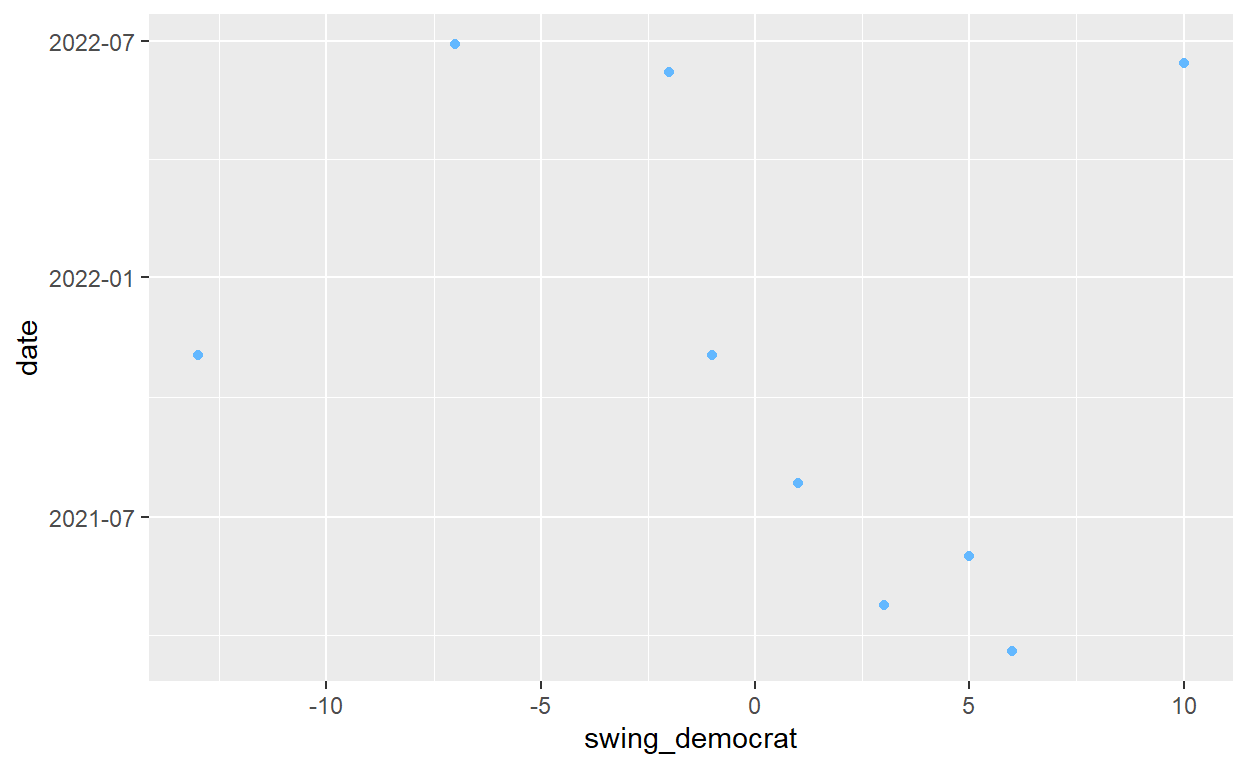
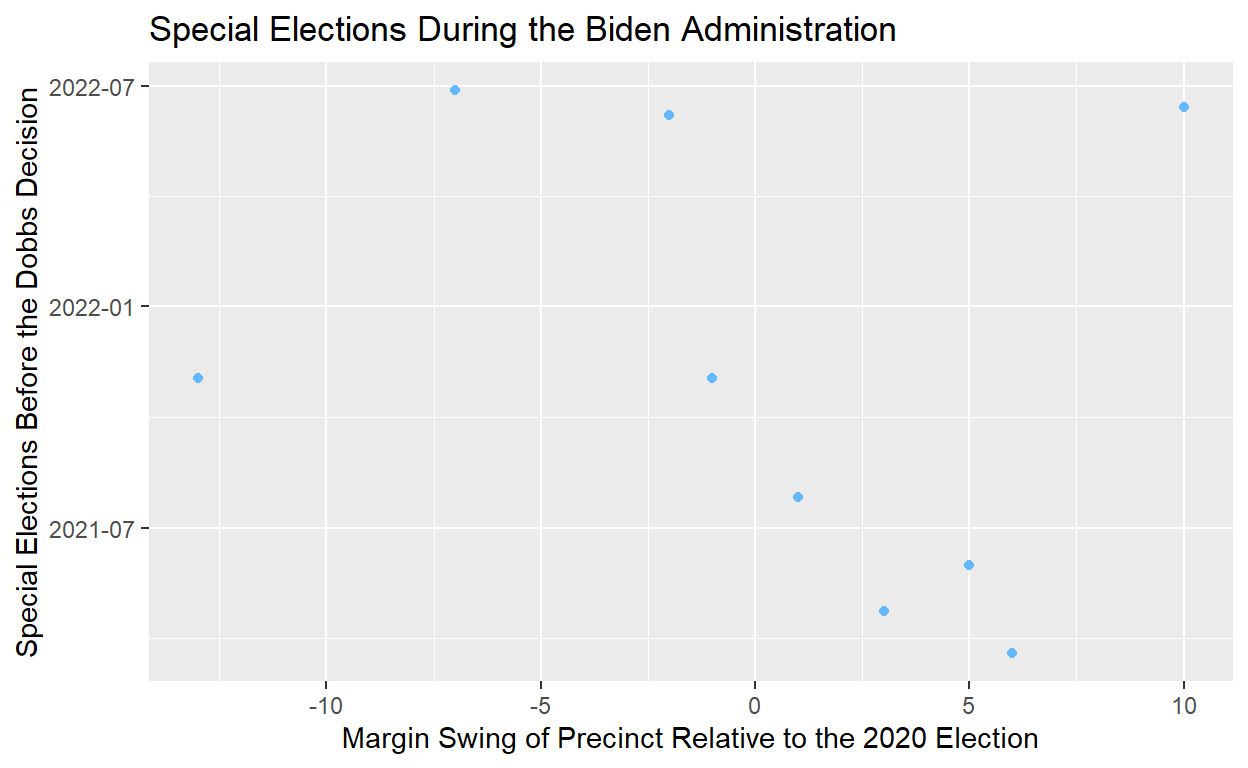
Please work.

diff --git a/index.html b/index.html
@@ -88,29 +88,29 @@ code span.wa { color: #5e5e5e; font-style: italic; } /* Warning */
 
 
   <!--radix_placeholder_meta_tags-->
-  <title>PS270 Final Project</title>
+  <title>The Dobbs Democrats</title>
 
-  <meta property="description" itemprop="description" content="My final project"/>
+  <meta property="description" itemprop="description" content="How the Dobbs decision ignitied Democratic voters and took them to the polls"/>
 
 
   <meta name="article:author" content="Wolfi Vetter"/>
 
   <!--  https://developers.facebook.com/docs/sharing/webmasters#markup -->
-  <meta property="og:title" content="PS270 Final Project"/>
+  <meta property="og:title" content="The Dobbs Democrats"/>
   <meta property="og:type" content="article"/>
-  <meta property="og:description" content="My final project"/>
+  <meta property="og:description" content="How the Dobbs decision ignitied Democratic voters and took them to the polls"/>
   <meta property="og:locale" content="en_US"/>
 
   <!--  https://dev.twitter.com/cards/types/summary -->
   <meta property="twitter:card" content="summary"/>
-  <meta property="twitter:title" content="PS270 Final Project"/>
-  <meta property="twitter:description" content="My final project"/>
+  <meta property="twitter:title" content="The Dobbs Democrats"/>
+  <meta property="twitter:description" content="How the Dobbs decision ignitied Democratic voters and took them to the polls"/>
 
   <!--/radix_placeholder_meta_tags-->
   <!--radix_placeholder_rmarkdown_metadata-->
 
   <script type="text/json" id="radix-rmarkdown-metadata">
-  {"type":"list","attributes":{"names":{"type":"character","attributes":{},"value":["title","author","description","output"]}},"value":[{"type":"character","attributes":{},"value":["PS270 Final Project"]},{"type":"list","attributes":{},"value":[{"type":"list","attributes":{"names":{"type":"character","attributes":{},"value":["name"]}},"value":[{"type":"character","attributes":{},"value":["Wolfi Vetter"]}]}]},{"type":"character","attributes":{},"value":["My final project"]},{"type":"list","attributes":{"names":{"type":"character","attributes":{},"value":["distill::distill_article"]}},"value":[{"type":"list","attributes":{"names":{"type":"character","attributes":{},"value":["self_contained"]}},"value":[{"type":"logical","attributes":{},"value":[false]}]}]}]}
+  {"type":"list","attributes":{"names":{"type":"character","attributes":{},"value":["title","author","description","output"]}},"value":[{"type":"character","attributes":{},"value":["The Dobbs Democrats"]},{"type":"list","attributes":{},"value":[{"type":"list","attributes":{"names":{"type":"character","attributes":{},"value":["name"]}},"value":[{"type":"character","attributes":{},"value":["Wolfi Vetter"]}]}]},{"type":"character","attributes":{},"value":["How the Dobbs decision ignitied Democratic voters and took them to the polls"]},{"type":"list","attributes":{"names":{"type":"character","attributes":{},"value":["distill::distill_article"]}},"value":[{"type":"list","attributes":{"names":{"type":"character","attributes":{},"value":["self_contained"]}},"value":[{"type":"logical","attributes":{},"value":[false]}]}]}]}
   </script>
   <!--/radix_placeholder_rmarkdown_metadata-->
   
@@ -1518,7 +1518,7 @@ code span.wa { color: #5e5e5e; font-style: italic; } /* Warning */
 <!--radix_placeholder_front_matter-->
 
 <script id="distill-front-matter" type="text/json">
-{"title":"PS270 Final Project","description":"My final project","authors":[{"author":"Wolfi Vetter","authorURL":"#","affiliation":"&nbsp;","affiliationURL":"#","orcidID":""}]}
+{"title":"The Dobbs Democrats","description":"How the Dobbs decision ignitied Democratic voters and took them to the polls","authors":[{"author":"Wolfi Vetter","authorURL":"#","affiliation":"&nbsp;","affiliationURL":"#","orcidID":""}]}
 </script>
 
 <!--/radix_placeholder_front_matter-->
@@ -1528,11 +1528,11 @@ code span.wa { color: #5e5e5e; font-style: italic; } /* Warning */
 <!--/radix_placeholder_site_before_body-->
 
 <div class="d-title">
-<h1>PS270 Final Project</h1>
+<h1>The Dobbs Democrats</h1>
 
 <!--radix_placeholder_categories-->
 <!--/radix_placeholder_categories-->
-<p>My final project</p>
+<p>How the Dobbs decision ignitied Democratic voters and took them to the polls</p>
 </div>
 
 <div class="d-byline">
@@ -1544,12 +1544,9 @@ code span.wa { color: #5e5e5e; font-style: italic; } /* Warning */
 
 <div class="d-article">
 <h2 id="project-thoughts">Project thoughts</h2>
-<p>I am interested in exploring data related to…
-how Democrats have consistently overperformed in off-year elections since Roe v. Wade was overturned.</p>
-<p>Question: How do election results skew differently following the Supreme Court’s decision to overturn Roe v. Wade? I believe that the election results have skewed more heavily towards the Democratic party following the termination of Roe. This is evident in abortion ballot initiatives, the 2022 Congressional midterms, and special elections occurring in 2023 and 2024, leading up to the 2024 presidential election. In order to properly conclude this idea, I will need to show polls and subsequent exit polls for the 2022 midterms and special elections, not only in districts that lean Republican but also districts that lean Democratic. Thankfully I already have a small list of examples from both sides of thi coin which I can use as a starting base. Additionally, I recall an MSNBC video where Chris Hayes explains how Democrats have overperformed consistently in 2023 special elections by an average of 8 points. If I can find that video, it should have a list of these elections and can further help my case.</p>
+<p>Question: How do election results skew differently following the Supreme Court’s decision to overturn Roe v. Wade? I believe that the election results have skewed more heavily towards the Democratic party following the termination of Roe. This is evident in abortion ballot initiatives, the 2022 Congressional midterms, and special elections occurring in 2023 and 2024, leading up to the 2024 presidential election. In order to properly conclude this idea, I will need to show polls and subsequent exit polls for the 2022 midterms and special elections, not only in districts that lean Republican but also districts that lean Democratic. Thankfully I already have a small list of examples from both sides of this coin which I can use as a starting base. Additionally, I recall an MSNBC video where Chris Hayes explains how Democrats have overperformed consistently in 2023 special elections by an average of 8 points. If I can find that video, it should have a list of these elections and can further help my case.</p>
+<p>I find this data important because prior to the 2024 General Presidential Election, I used this as one of many factors to predict the 2024 Election. The fact that the elections have skewed more in favor of the Democratic candidates after the Dobbs decision have given a strong hint that the Democrats were being conisistently underestimated going into the 2024 election season.</p>
 <p>Democrats Overperforming in Special Elections 2023:</p>
-<p>(Look into special elections pre-dobbs, 2021 and 2022)</p>
-<p>(Make sure to commit everything)</p>
 <div class="layout-chunk" data-layout="l-body">
 <div class="sourceCode">
 <pre class="sourceCode r"><code class="sourceCode r"><span><span class='kw'><a href='https://rdrr.io/r/base/library.html'>library</a></span><span class='op'>(</span><span class='va'><a href='https://tidyverse.tidyverse.org'>tidyverse</a></span><span class='op'>)</span></span>
@@ -1571,12 +1568,14 @@ how Democrats have consistently overperformed in off-year elections since Roe v.
 10 8/9/2022  Minnesota HD-01  D+7                       7
 # ℹ 40 more rows</code></pre>
 </div>
+<p>I’ve labeled the whole dataset as Overperformance and made the following variables: Date, which refers to the date of a special election; precinct, which is where the special election took place; margin_swing, which tells us the victorious candidate in the special election and difference in their victory compared to the margin of victory either labeled by polls or by how the voters of the precinct voted in the 2020 election; and swing_democrat, which is the same numbers, but whichever district had a Republican margin swing the number would be a negative number.</p>
 <div class="layout-chunk" data-layout="l-body">
 <div class="sourceCode">
 <pre class="sourceCode r"><code class="sourceCode r"><span><span class='va'>data</span> <span class='op'>|&gt;</span> </span>
 <span>  <span class='fu'><a href='https://dplyr.tidyverse.org/reference/mutate.html'>mutate</a></span><span class='op'>(</span>date <span class='op'>=</span> <span class='fu'><a href='https://rdrr.io/r/base/as.Date.html'>as.Date</a></span><span class='op'>(</span><span class='va'>date</span>, format <span class='op'>=</span> <span class='st'>"%m/%d/%Y"</span><span class='op'>)</span><span class='op'>)</span> <span class='op'>|&gt;</span> </span>
 <span>  <span class='fu'><a href='https://ggplot2.tidyverse.org/reference/ggplot.html'>ggplot</a></span><span class='op'>(</span><span class='fu'><a href='https://ggplot2.tidyverse.org/reference/aes.html'>aes</a></span><span class='op'>(</span>x <span class='op'>=</span> <span class='va'>swing_democrat</span>, y <span class='op'>=</span> <span class='va'>date</span><span class='op'>)</span><span class='op'>)</span> <span class='op'>+</span></span>
-<span>  <span class='fu'><a href='https://ggplot2.tidyverse.org/reference/geom_point.html'>geom_point</a></span><span class='op'>(</span>color <span class='op'>=</span> <span class='st'>"steelblue1"</span><span class='op'>)</span></span></code></pre>
+<span>  <span class='fu'><a href='https://ggplot2.tidyverse.org/reference/geom_point.html'>geom_point</a></span><span class='op'>(</span>color <span class='op'>=</span> <span class='st'>"steelblue1"</span><span class='op'>)</span> <span class='op'>+</span></span>
+<span>    <span class='fu'><a href='https://ggplot2.tidyverse.org/reference/labs.html'>labs</a></span><span class='op'>(</span>title <span class='op'>=</span> <span class='st'>"Special Elections During the Biden Administration"</span>, x <span class='op'>=</span> <span class='st'>"Margin Swing of Precinct Relative to the 2020 Election"</span>, y <span class='op'>=</span> <span class='st'>"Date of Special Election"</span><span class='op'>)</span></span></code></pre>
 </div>
 <p><img src="index_files/figure-html5/unnamed-chunk-2-1.png" width="624" /></p>
 </div>
@@ -1587,7 +1586,8 @@ how Democrats have consistently overperformed in off-year elections since Roe v.
 <span>  <span class='fu'><a href='https://dplyr.tidyverse.org/reference/mutate.html'>mutate</a></span><span class='op'>(</span>date <span class='op'>=</span> <span class='fu'><a href='https://rdrr.io/r/base/as.Date.html'>as.Date</a></span><span class='op'>(</span><span class='va'>date</span>, format <span class='op'>=</span> <span class='st'>"%m/%d/%Y"</span><span class='op'>)</span><span class='op'>)</span> <span class='op'>|&gt;</span> </span>
 <span>  <span class='fu'><a href='https://dplyr.tidyverse.org/reference/slice.html'>slice</a></span><span class='op'>(</span><span class='fl'>1</span><span class='op'>:</span><span class='fl'>9</span><span class='op'>)</span> <span class='op'>|&gt;</span> </span>
 <span>  <span class='fu'><a href='https://ggplot2.tidyverse.org/reference/ggplot.html'>ggplot</a></span><span class='op'>(</span><span class='fu'><a href='https://ggplot2.tidyverse.org/reference/aes.html'>aes</a></span><span class='op'>(</span>x <span class='op'>=</span> <span class='va'>swing_democrat</span>, y <span class='op'>=</span> <span class='va'>date</span><span class='op'>)</span><span class='op'>)</span> <span class='op'>+</span></span>
-<span>  <span class='fu'><a href='https://ggplot2.tidyverse.org/reference/geom_point.html'>geom_point</a></span><span class='op'>(</span>color <span class='op'>=</span> <span class='st'>"steelblue1"</span><span class='op'>)</span></span></code></pre>
+<span>  <span class='fu'><a href='https://ggplot2.tidyverse.org/reference/geom_point.html'>geom_point</a></span><span class='op'>(</span>color <span class='op'>=</span> <span class='st'>"steelblue1"</span><span class='op'>)</span> <span class='op'>+</span></span>
+<span>  <span class='fu'><a href='https://ggplot2.tidyverse.org/reference/labs.html'>labs</a></span><span class='op'>(</span>title <span class='op'>=</span> <span class='st'>"Special Elections During the Biden Administration"</span>, x <span class='op'>=</span> <span class='st'>"Margin Swing of Precinct Relative to the 2020 Election"</span>, y <span class='op'>=</span> <span class='st'>"Special Elections Before the Dobbs Decision"</span><span class='op'>)</span></span></code></pre>
 </div>
 <p><img src="index_files/figure-html5/unnamed-chunk-3-1.png" width="624" /></p>
 </div>
@@ -1598,11 +1598,13 @@ how Democrats have consistently overperformed in off-year elections since Roe v.
 <span>  <span class='fu'><a href='https://dplyr.tidyverse.org/reference/mutate.html'>mutate</a></span><span class='op'>(</span>date <span class='op'>=</span> <span class='fu'><a href='https://rdrr.io/r/base/as.Date.html'>as.Date</a></span><span class='op'>(</span><span class='va'>date</span>, format <span class='op'>=</span> <span class='st'>"%m/%d/%Y"</span><span class='op'>)</span><span class='op'>)</span> <span class='op'>|&gt;</span> </span>
 <span>  <span class='fu'><a href='https://dplyr.tidyverse.org/reference/slice.html'>slice</a></span><span class='op'>(</span><span class='fl'>10</span><span class='op'>:</span><span class='fl'>50</span><span class='op'>)</span> <span class='op'>|&gt;</span> </span>
 <span>  <span class='fu'><a href='https://ggplot2.tidyverse.org/reference/ggplot.html'>ggplot</a></span><span class='op'>(</span><span class='fu'><a href='https://ggplot2.tidyverse.org/reference/aes.html'>aes</a></span><span class='op'>(</span>x <span class='op'>=</span> <span class='va'>swing_democrat</span>, y <span class='op'>=</span> <span class='va'>date</span><span class='op'>)</span><span class='op'>)</span> <span class='op'>+</span></span>
-<span>  <span class='fu'><a href='https://ggplot2.tidyverse.org/reference/geom_point.html'>geom_point</a></span><span class='op'>(</span>color <span class='op'>=</span> <span class='st'>"steelblue1"</span><span class='op'>)</span></span></code></pre>
+<span>  <span class='fu'><a href='https://ggplot2.tidyverse.org/reference/geom_point.html'>geom_point</a></span><span class='op'>(</span>color <span class='op'>=</span> <span class='st'>"steelblue1"</span><span class='op'>)</span> <span class='op'>+</span></span>
+<span>  <span class='fu'><a href='https://ggplot2.tidyverse.org/reference/labs.html'>labs</a></span><span class='op'>(</span>title <span class='op'>=</span> <span class='st'>"Special Elections During the Biden Administration"</span>, x <span class='op'>=</span> <span class='st'>"Margin Swing of Precinct Relative to the 2020 Election"</span>, y <span class='op'>=</span> <span class='st'>"Special Elections After the Dobbs Decision"</span><span class='op'>)</span></span></code></pre>
 </div>
 <p><img src="index_files/figure-html5/unnamed-chunk-4-1.png" width="624" /></p>
 </div>
 <p>This graph shows the special elections post Dobbs. The Margin swing heavily favors the Democrats in special elections following the Overturning of Roe.</p>
+<p>The resulting graphs, isolated as well as together, shows how rapidly and radically the Democrats had special election victories after Roe v. Wade was overturned. The American electorate had a massive backlash, indicating that they knew the Republican Party would not be willing to codify Roe into federal law, and as a result, made a massive effort to vote for Democrats so that they would have a chance to, if not codify Roe, at least prevent the Republican Party from taking abortion bans one step further than just the state level.</p>
 <div class="sourceCode" id="cb2"><pre class="sourceCode r distill-force-highlighting-css"><code class="sourceCode r"></code></pre></div>
 <!--radix_placeholder_article_footer-->
 <!--/radix_placeholder_article_footer-->
